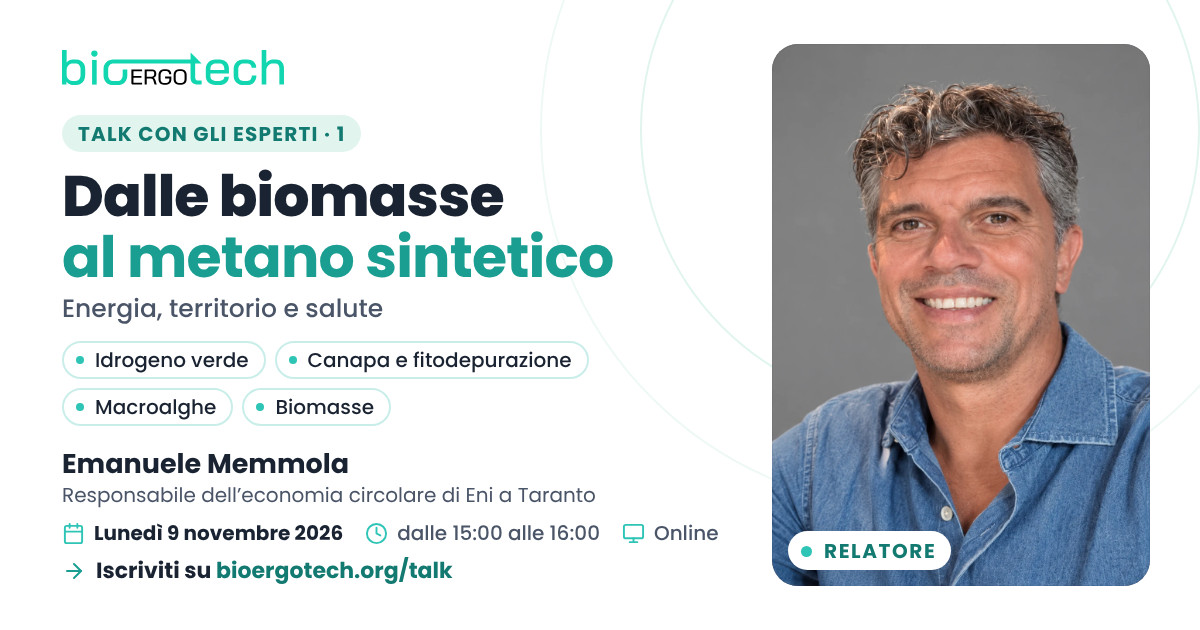
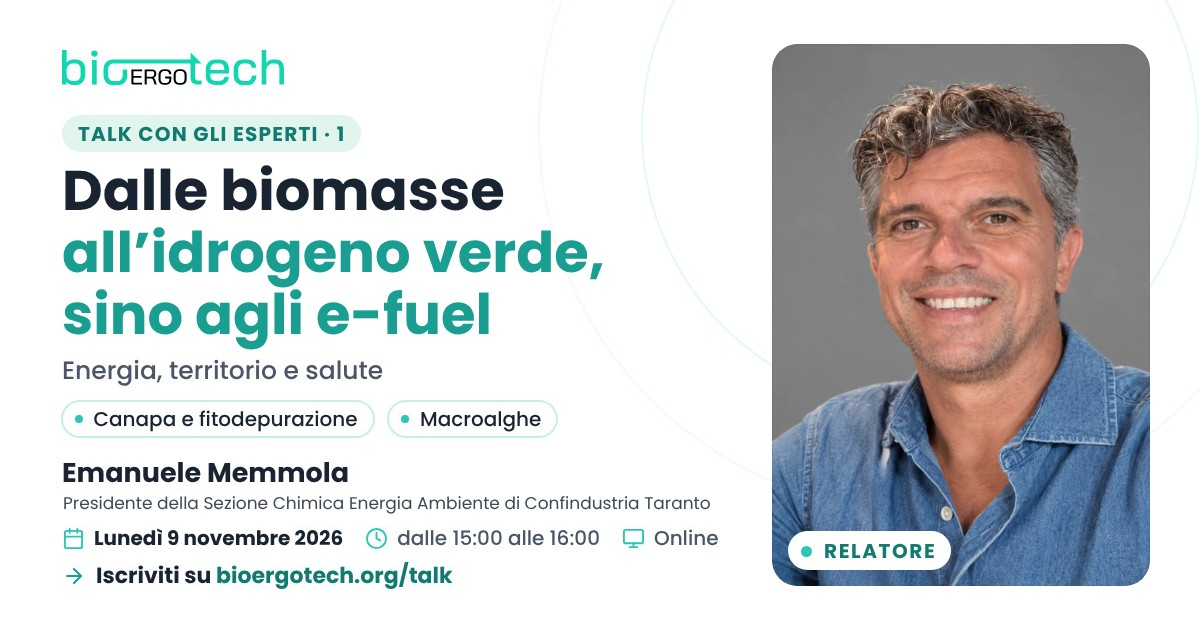
Talk: titolo e ruolo nuovi per Emanuele Memmola
Su indicazione del relatore: "Dalle biomasse all'idrogeno verde, sino agli
e-fuel", e "Presidente della Sezione Chimica Energia Ambiente di
Confindustria Taranto". Introduzione e primo tema allineati, immagine Open
Graph rifatta con titolo e ruolo nuovi (?v=2 per aggiornare le anteprime
dei social).

Claude-Session: https://claude.ai/code/session_01GFf5Ufhw8pP69PYCBGd7q5

Changed region(s): [[0.0308, 0.2714, 0.5242, 0.6937], [0.0308, 0.7238, 0.6167, 0.9349], [0.0308, 0.0905, 0.2467, 0.1508]]

diff --git a/app/eventi/vivere-piu-a-lungo/talk/content.ts b/app/eventi/vivere-piu-a-lungo/talk/content.ts
@@ -113,12 +113,13 @@ export const TALKS: Talk[] = [
   {
     slug: "emanuele-memmola",
     numero: 1,
-    titolo: "Dalle biomasse al metano sintetico",
+    // Il titolo e il ruolo sono quelli indicati dal relatore il 19 ottobre.
+    titolo: "Dalle biomasse all'idrogeno verde, sino agli e-fuel",
     sottotitolo:
       "Energia rinnovabile, territorio e salute: le sfide reali dell'economia circolare raccontate da chi ci lavora.",
     relatore: {
       nome: "Emanuele Memmola",
-      ruolo: "Responsabile dell'economia circolare di Eni a Taranto",
+      ruolo: "Presidente della Sezione Chimica Energia Ambiente di Confindustria Taranto",
       foto: "/assets/images/eventi/talk/emanuele-memmola.webp",
     },
     dataLabel: "Lunedì 9 novembre 2026",
@@ -133,13 +134,13 @@ export const TALKS: Talk[] = [
     link: "https://meet.google.com/qoy-qvkw-ced",
     capienza: null,
     intro:
-      "Uno degli obiettivi del percorso è aiutarvi a trovare idee concrete da sviluppare nei vostri progetti. Per questo vi mettiamo in contatto con esperti del settore, che raccontano le sfide reali che affrontano nel loro lavoro. Il primo incontro è con Emanuele Memmola, che parlerà di metano sintetico e biomasse e delle loro possibili applicazioni in ambito biotech e salute.",
+      "Uno degli obiettivi del percorso è aiutarvi a trovare idee concrete da sviluppare nei vostri progetti. Per questo vi mettiamo in contatto con esperti del settore, che raccontano le sfide reali che affrontano nel loro lavoro. Il primo incontro è con Emanuele Memmola, che parlerà del percorso dalle biomasse all'idrogeno verde fino agli e-fuel, e delle loro possibili applicazioni in ambito biotech e salute.",
     temi: [
       {
-        titolo: "Idrogeno verde e metano sintetico",
+        titolo: "Idrogeno verde ed e-fuel",
         icona: "fa-atom",
         testo:
-          "Come si produce energia rinnovabile combinando idrogeno verde e anidride carbonica, e perché un combustibile pulito conta anche per laboratori, ospedali e filiere della salute.",
+          "Come idrogeno verde e anidride carbonica diventano combustibili sintetici, gli e-fuel, e perché un combustibile pulito conta anche per laboratori, ospedali e filiere della salute.",
       },
       {
         titolo: "Un ettaro di canapa per curare il suolo",
@@ -174,7 +175,10 @@ export const TALKS: Talk[] = [
     spuntiNota: "Sono solo spunti: le idee migliori nasceranno dalle vostre domande.",
     perChi:
       "Per gli studenti del percorso «Biotecnologie e Intelligenza Artificiale», dei licei e dell'università, e per i loro docenti. La partecipazione è gratuita.",
-    immagineOg: "/assets/images/eventi/talk/emanuele-memmola-og.jpg",
+    // "?v=2": l'immagine e stata rifatta con il titolo e il ruolo nuovi, e
+    // WhatsApp, LinkedIn e Facebook rileggono un'anteprima solo se cambia
+    // l'indirizzo.
+    immagineOg: "/assets/images/eventi/talk/emanuele-memmola-og.jpg?v=2",
   },
 ];
 

diff --git a/app/eventi/vivere-piu-a-lungo/talk/README.md b/app/eventi/vivere-piu-a-lungo/talk/README.md
@@ -4,8 +4,10 @@ Una serie di incontri brevi, online e gratuiti, fra gli studenti del percorso
 "Biotecnologie e Intelligenza Artificiale" (licei e universita), i loro
 docenti e chi lavora ogni giorno su energia, ambiente, biotecnologie e
 salute. Servono a conoscere problemi veri e a trovare idee concrete per i
-progetti. Il primo e con Emanuele Memmola, responsabile dell'economia
-circolare di Eni a Taranto, lunedi 9 novembre 2026 dalle 15:00 alle 16:00.
+progetti. Il primo e con Emanuele Memmola, presidente della Sezione
+Chimica Energia Ambiente di Confindustria Taranto, "Dalle biomasse
+all'idrogeno verde, sino agli e-fuel", lunedi 9 novembre 2026 dalle 15:00
+alle 16:00.
 
 Sotto modulo dell'evento, accanto a `licei/` e `universita/`, con la stessa
 impostazione: i dati in un file, una migrazione, le guardie nel codice e
@@ -60,7 +62,13 @@ riga nella pagina dei licei e pannello staff la leggono da li.
    funzione SQL.
 7. **Immagine Open Graph**: 1200x630, JPG sotto i 150 KB circa, in
    `public/assets/images/eventi/talk/<slug>-og.jpg`, e il percorso in
-   `immagineOg`.
+   `immagineOg`. Se si rifa l'immagine (titolo o ruolo cambiati), si
+   aggiunge o si incrementa `?v=` nel percorso: le anteprime dei social si
+   rileggono solo se l'indirizzo cambia. Per il talk di Memmola l'immagine
+   e stata rifatta il 26 ottobre senza `grafica/`: logo, etichetta,
+   sottotitolo, temi, nome, data e foto copiati dall'immagine di prima,
+   titolo e ruolo nuovi in Poppins. Le grafiche social (post, storia,
+   quadrato) vanno rifatte con `genera.py`.
 8. **Foto del relatore**: finche e null compare un monogramma con le
    iniziali in un cerchio teal. Con la foto la pagina del talk mostra un
    ritratto grande (quadrato, angoli di 24 px, da 340 a 400 px accanto al
